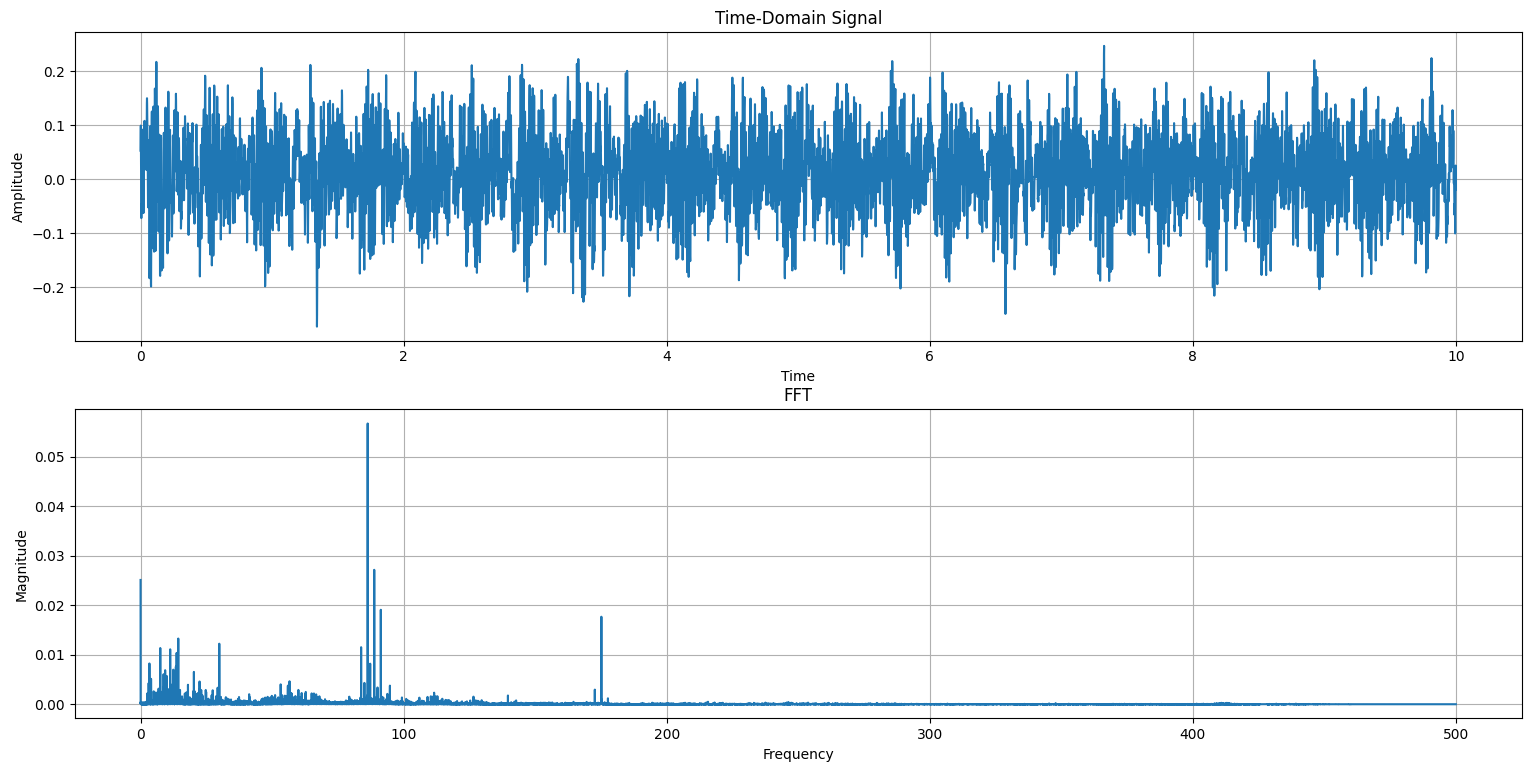
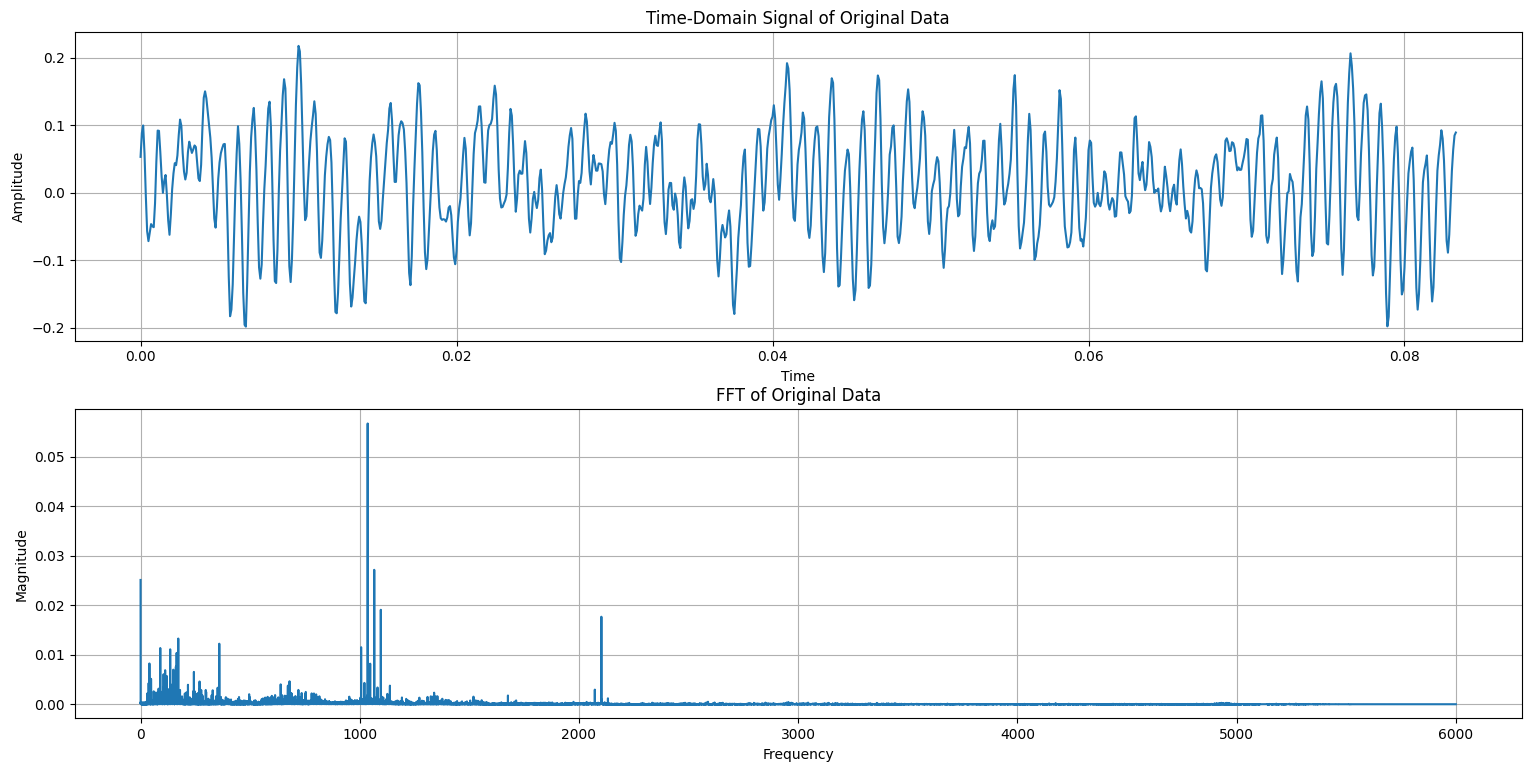
adding comparison graphs

diff --git a/fft_generator_script.py b/fft_generator_script.py
@@ -2,10 +2,10 @@ import numpy as np
 import pandas as pd
 import matplotlib.pyplot as plt
 
-data = pd.read_csv("original_data.csv", header=None)
+data = pd.read_csv("gpt-4.1_data.csv", header=None)
 signal = data[0].values
 #sampling freq
-fs = 1000 
+fs = 12000 
 #time vector
 t = np.arange(len(signal)) / fs
 

diff --git a/compare_data.py b/compare_data.py
@@ -16,7 +16,7 @@ plt.grid(True)
 plt.show()
 
 #fft
-fs = 1000 
+fs = 12000 
 N = len(real)
 
 # Compute FFTs